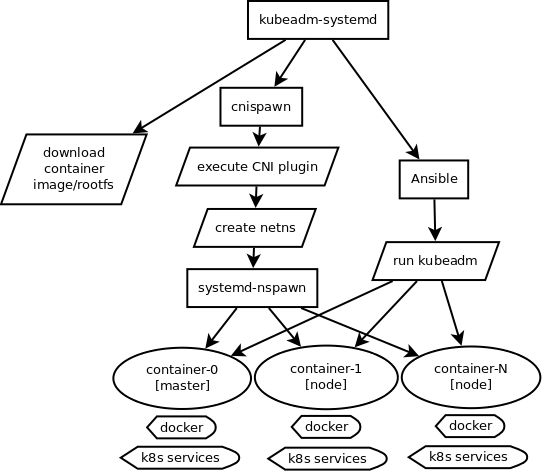
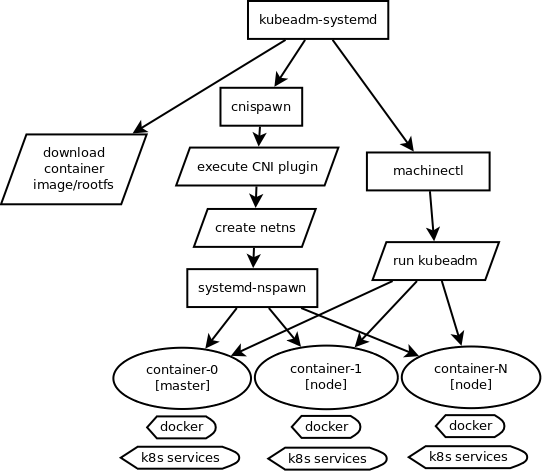
README: Drop information about Ansible
We will not use Ansible, instead we are going to use
machinectl (or SSH, if needed) to run kubeadm.

Changed region(s): [[0.679, 0.2972, 0.9151, 0.5053], [0.2952, 0.8917, 0.3838, 0.9214], [0.6494, 0.327, 0.679, 0.3864]]

diff --git a/README.md b/README.md
@@ -30,11 +30,6 @@ By default, systemd-nspawn doesn't create its own network namepsaces,
 so the container is succesfully running inside the namespace we
 created.
 
-### Ansible
-
-Ansible is used for running kubeadm among multiple nodes and coordinating
-this process.
-
 ## Motivation
 
 There are many other ways for setting up the development environment
